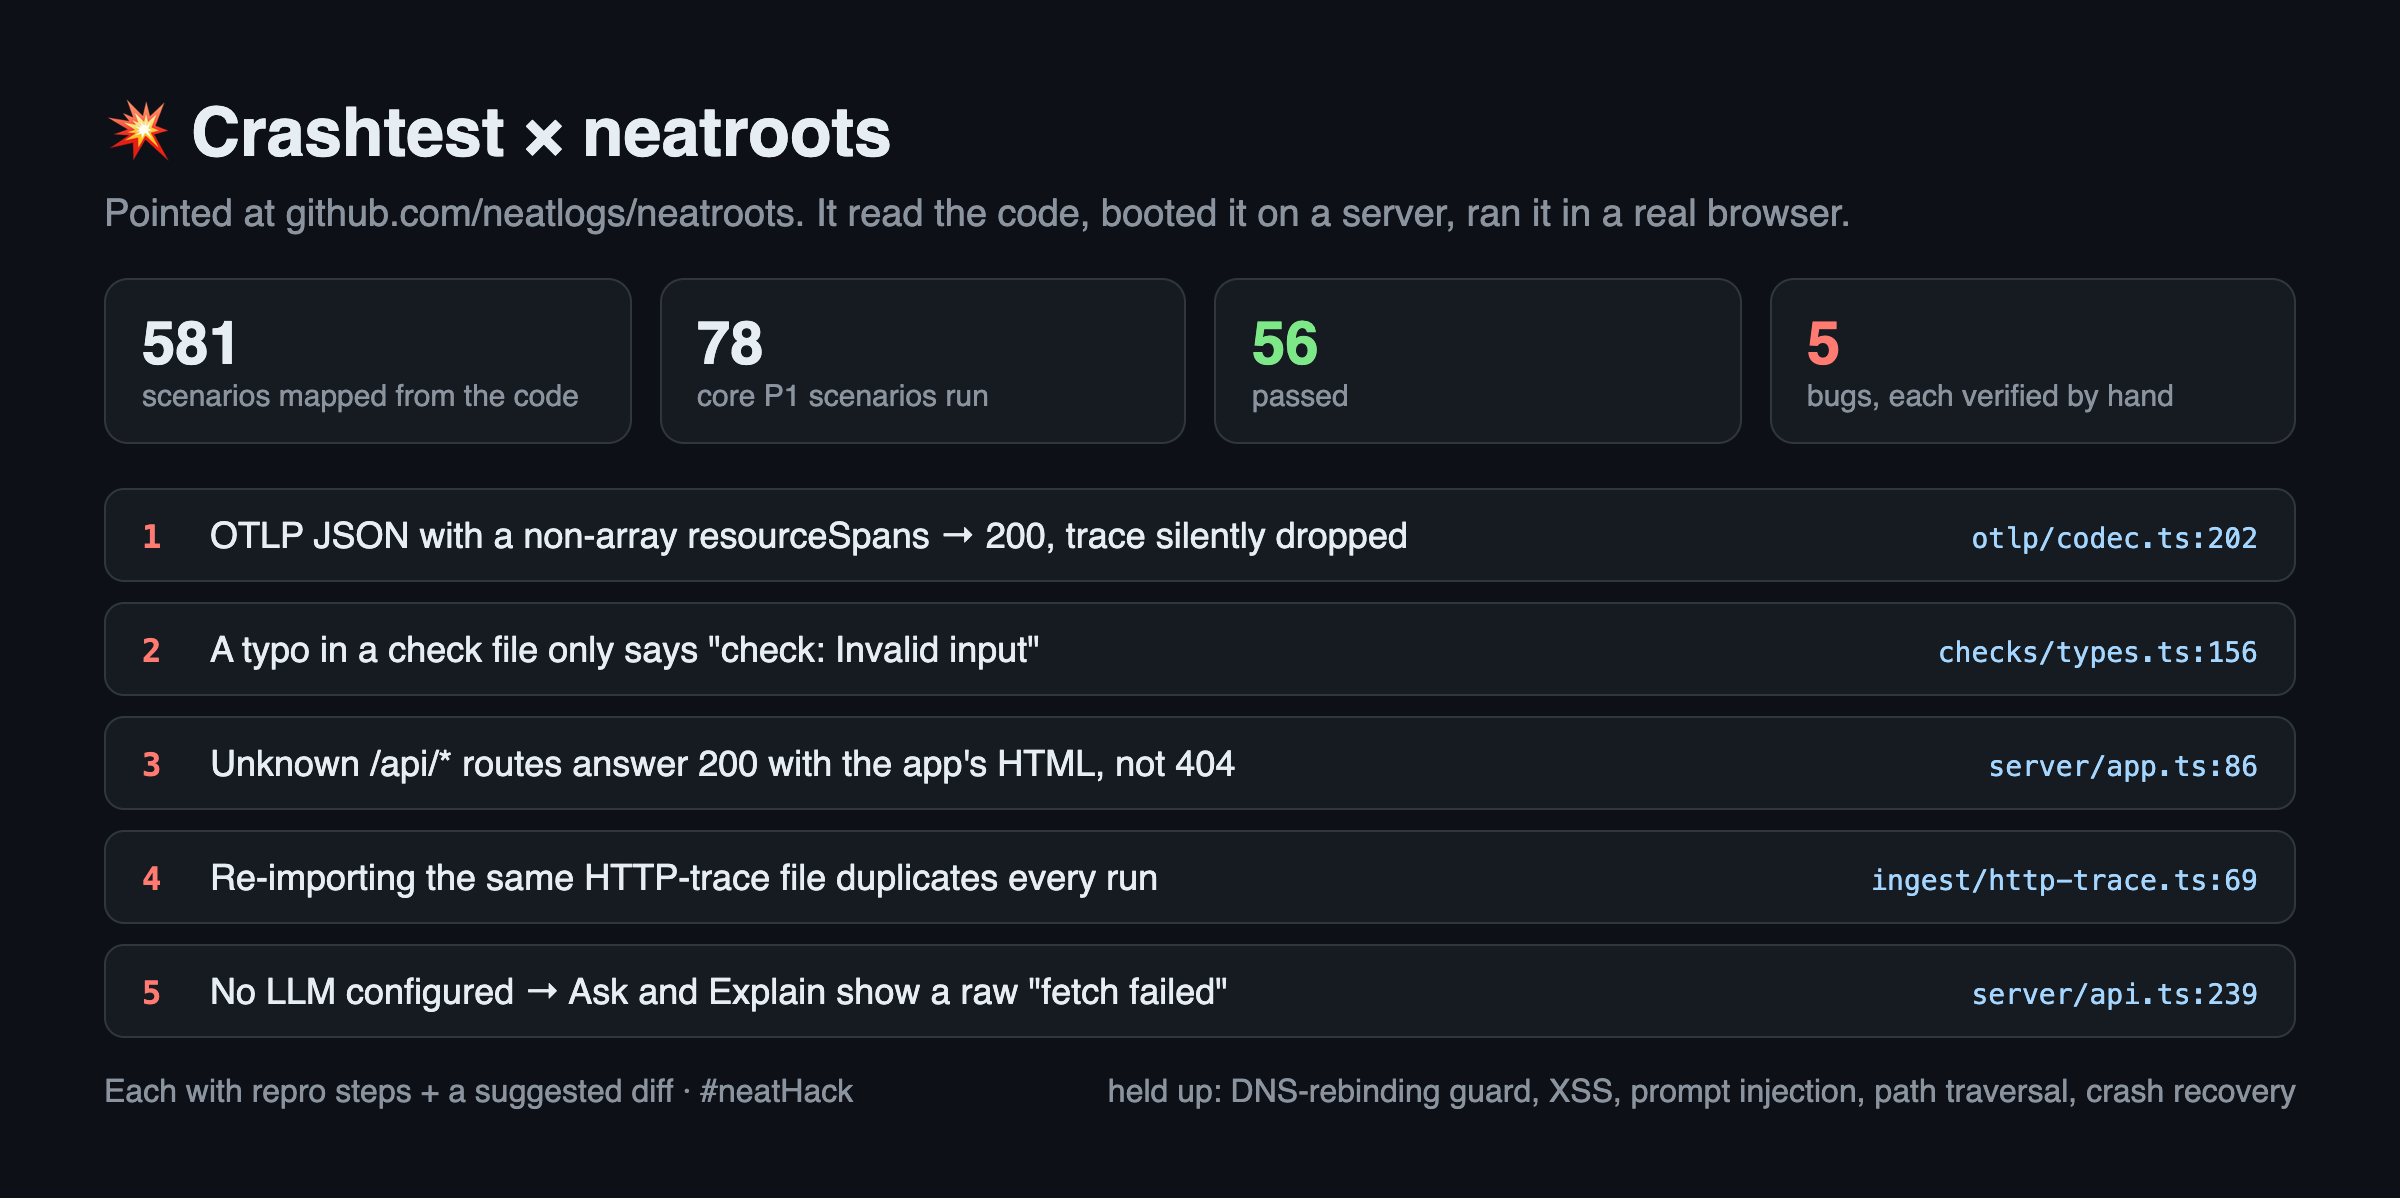
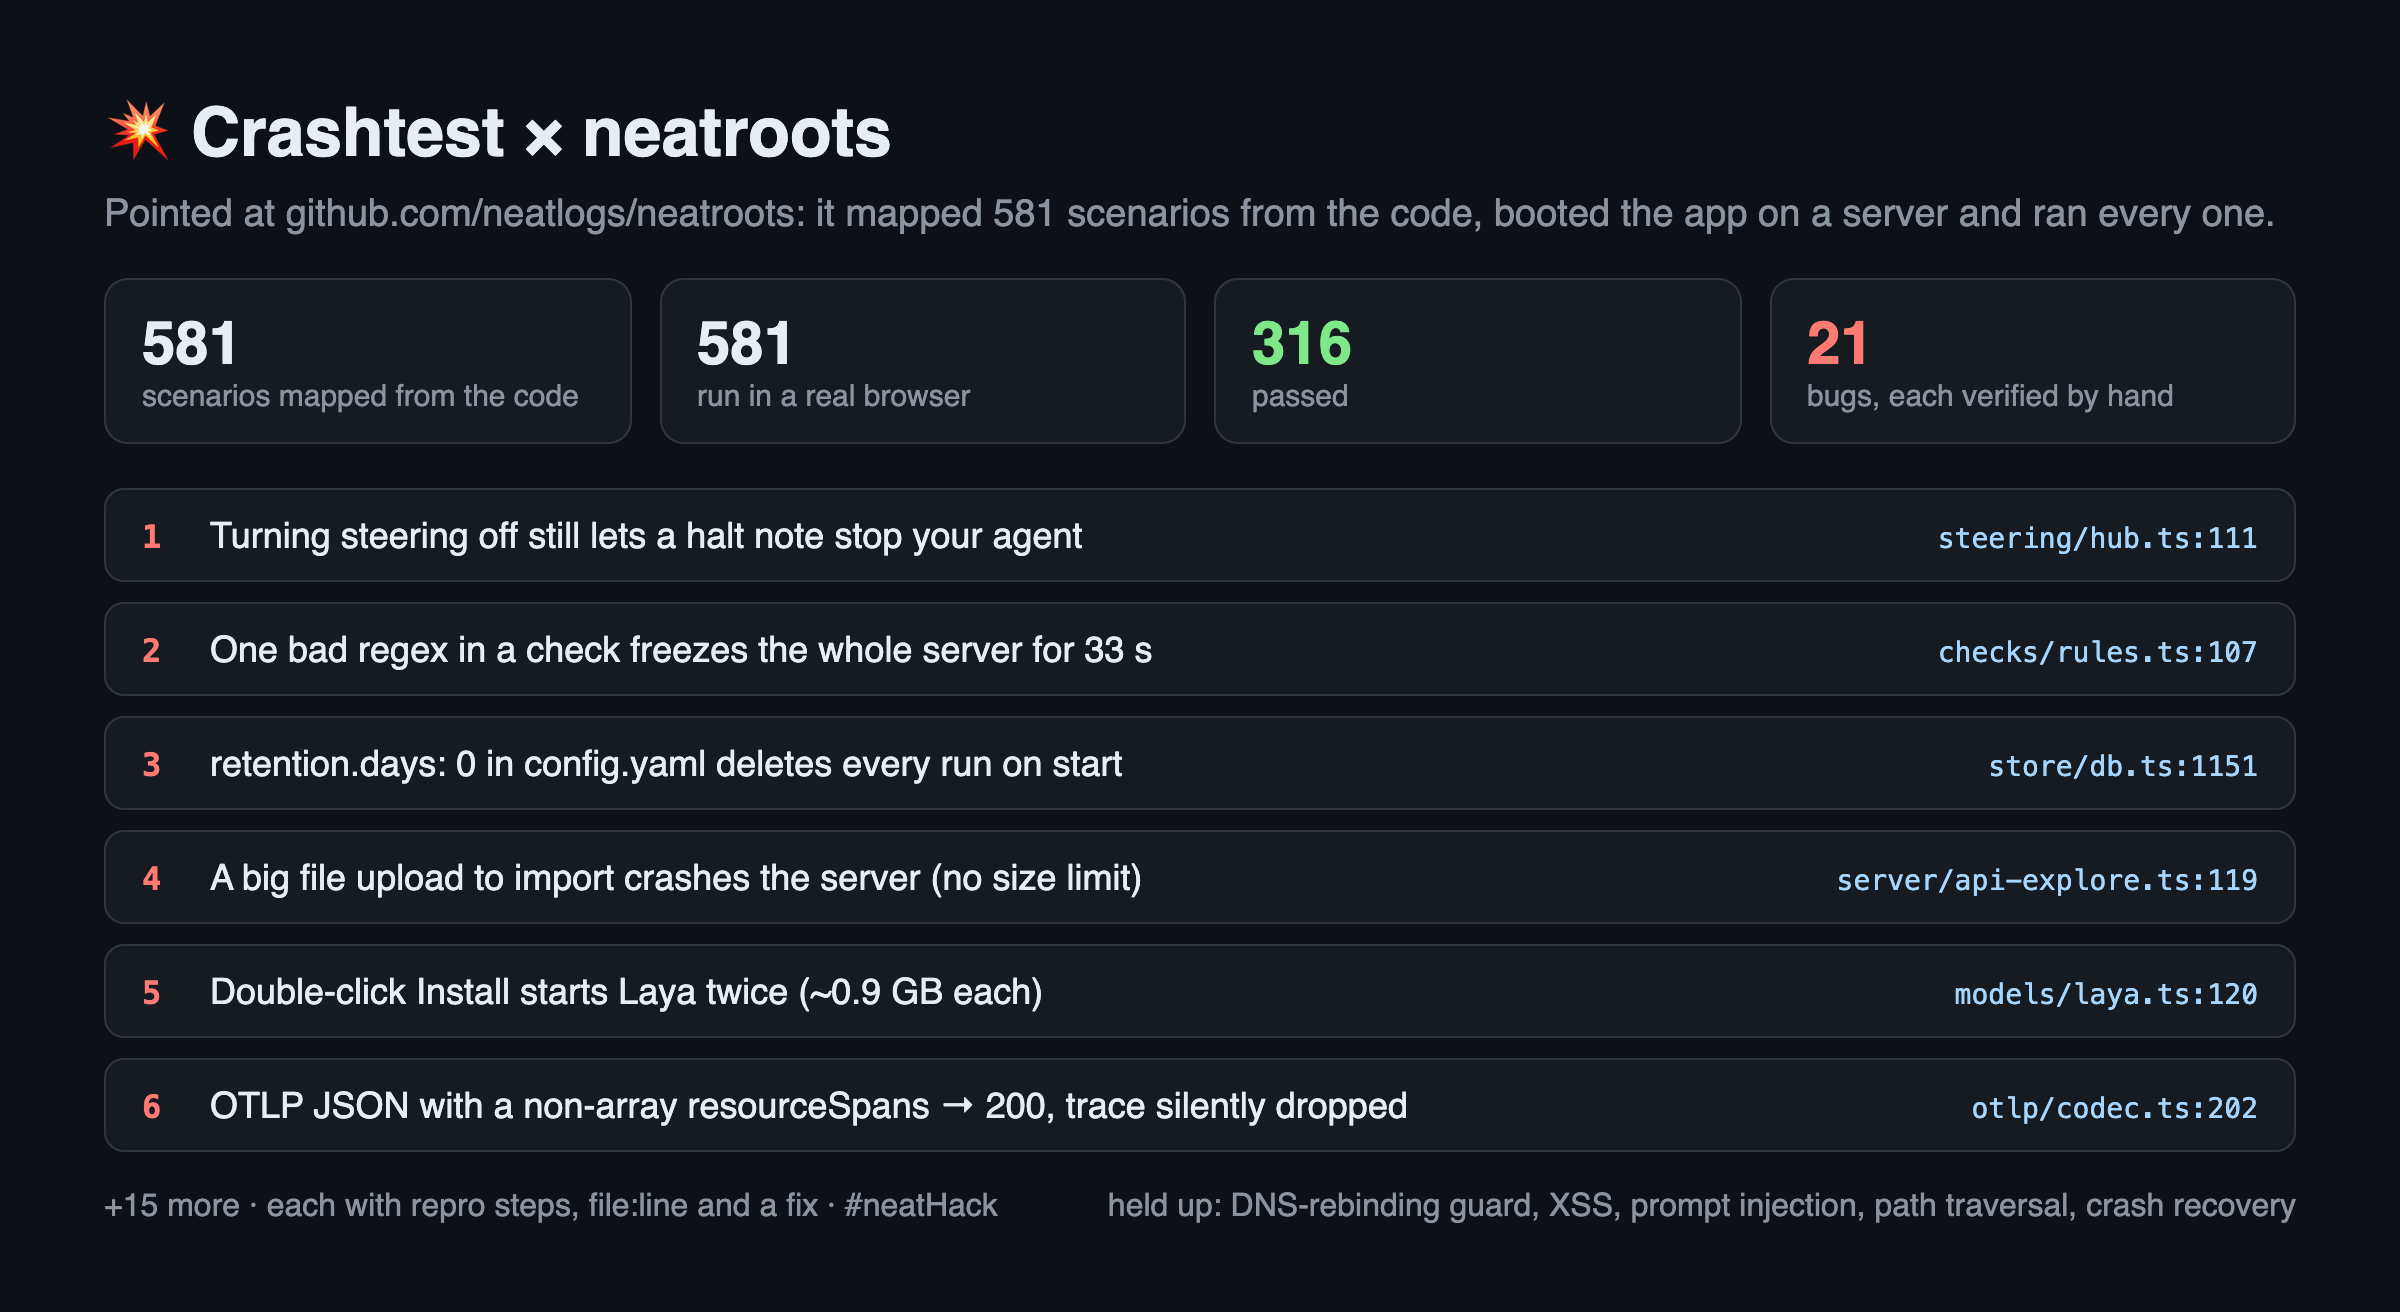
Record the full neatroots run: 581 scenarios, 21 verified bugs
Entire-Checkpoint: a76152268aab

diff --git a/docs/evidence/findings-neatroots.md b/docs/evidence/findings-neatroots.md
@@ -7,23 +7,46 @@ neatlogs' head of product engineering ([the ask](https://x.com/kurokotetsuyami/s
 
 ## What ran
 
-- Crashtest read the repo, found two products (neatroots and its steering hook), and mapped **neatroots**:
-  **581 scenarios** across 12 user journeys (219 P1 · 268 P2 · 94 P3), in under 5 minutes.
-- It booted neatroots by itself on an Ubuntu server (pnpm install, builds `packages/ui` and
-  `packages/neatroots`, starts `dist/cli.js start`) in about 3 minutes, and tunneled it back to a browser
-  on the Mac.
-- It ran the **78 P1 scenarios** of the five core journeys: send traces, browse runs and findings, manage
-  checks, ask/explain/replay, and import. First pass: 45 passed · 19 broken · 14 skipped.
-- Most skips needed an LLM. A second pass of 16 scenarios started neatroots' own mock LLM (given to Crashtest
-  as a setup note in chat) and ran on the fixed runner below: 11 passed · 0 broken · 5 skipped.
-  **Final: 56 passed · 16 broken · 6 skipped.** Of the 16 broken, 7 are bugs 1–5 below, 1 is the gap, and
-  8 are expectations the scenario writer assumed (listed at the end).
-- Every "broken" verdict below was then checked by hand against the source, and reproduced where it could
-  be. Verdicts that did not hold up are listed at the end, with what we changed in Crashtest because of them.
+**All 581 scenarios ran: ✅ 316 passed · ❌ 158 broken · ⏭ 107 skipped · 0 left.** We checked the broken
+verdicts by hand against the source: **21 are real bugs** (below), one is a gap, and the rest were wording or
+expectations the scenario writer assumed, design choices, or near-duplicates of a listed bug.
+
+- Crashtest read the repo, found two products (neatroots and its steering hook), and mapped **neatroots** into
+  **581 scenarios across 12 user journeys** (219 P1 · 268 P2 · 94 P3) in under 5 minutes.
+- It booted neatroots by itself on a 2-core, 2 GB Ubuntu server (pnpm install, two builds, start; plus
+  neatroots' own mock LLM, given as a setup note in chat) and tunneled it back to browsers on the Mac.
+- The first 94 scenarios ran one at a time on Sonnet; the remaining 487 ran on Haiku, three at a time. The five
+  that ran out of steps on Haiku were re-run on Sonnet, with Auto parallelism picking 2 at once from the
+  server's free memory: 3 passed, 1 broke, 1 skipped.
+
+| Priority | Scenarios | ✅ | ❌ | ⏭ |
+|---|---|---|---|---|
+| P1 | 219 | 126 | 51 | 42 |
+| P2 | 268 | 142 | 82 | 44 |
+| P3 | 94 | 48 | 25 | 21 |
+
+| Journey | Scenarios | ✅ | ❌ | ⏭ |
+|---|---|---|---|---|
+| Install, start and set up a project | 44 | 27 | 10 | 7 |
+| Send traces from my agent | 36 | 29 | 3 | 4 |
+| Browse runs and findings | 74 | 51 | 14 | 9 |
+| Manage checks | 61 | 44 | 13 | 4 |
+| Steer a running agent | 39 | 24 | 10 | 5 |
+| Ask, explain and replay runs | 41 | 20 | 15 | 6 |
+| Import runs from files and Neatlogs Cloud | 45 | 15 | 17 | 13 |
+| Configure models (LLM, Laya, Jev) | 56 | 22 | 20 | 14 |
+| Connect coding agents over MCP | 67 | 42 | 14 | 11 |
+| Chat with Claude Code or Codex in the app | 37 | 7 | 12 | 18 |
+| Send runs to Neatlogs Cloud | 47 | 22 | 20 | 5 |
+| Run in the background and maintain | 34 | 13 | 10 | 11 |
+
+Skipped, by reason: 33 need something a test run can't simulate (a real coding-agent CLI, a device, a real cloud
+account), 28 need a hosted LLM, cloud token or key we did not use, 16 assume a feature the app does not have,
+9 hit the 15-minute limit, 21 other.
 
 ## Verified findings
 
-Bugs 1–5 come from the 78 core scenarios; bugs 6–21 from the run of the remaining scenarios, which is still going.
+Bugs 1–5 came from the first 78 core scenarios, 6–21 from the rest.
 
 ### 1. A JSON OTLP body with a non-array `resourceSpans` is accepted and silently dropped (S-047)
 - **Do:** `POST /v1/traces` with `Content-Type: application/json` and `{"resourceSpans": "oops"}`.
@@ -230,7 +253,7 @@ Bugs 1–5 come from the 78 core scenarios; bugs 6–21 from the run of the rema
   offers re-run checks, ask, send to cloud and download.
 
 ## What held up
-Highlights from the 56 scenarios that passed:
+Highlights from the 316 scenarios that passed:
 - OTLP over HTTP JSON, gzipped protobuf and gRPC on 4317; a 70 MB body is refused with `413`.
 - Loopback-only bind and the DNS-rebinding guard (403 for a foreign `Host`); no API path returns the stored
   cloud token, only `has_token`.

diff --git a/README.md b/README.md
@@ -16,9 +16,7 @@ Built during [neatHack](https://neatlogs.com/hackathon) (Oct 10–12, 2026). Bui
 
 ## neatlogs asked us to test their own product
 
-After our first post, neatlogs' head of product engineering [replied](https://x.com/kurokotetsuyami/status/2108943094809071674): *"run this on neatroots, & share your findings with me"*. So we did. Crashtest mapped [neatlogs/neatroots](https://github.com/neatlogs/neatroots) into **581 scenarios across 12 user journeys** in under 5 minutes, booted it on a server by itself, and started running all of them.
-
-The 78 core P1 scenarios: **✅ 56 · ❌ 16 · ⏭ 6**, and every broken verdict checked by hand against the source. Real bugs include a JSON trace with a malformed `resourceSpans` accepted with `200` and silently dropped (`otlp/codec.ts:202`), `retention.days: 0` in `config.yaml` deleting every unpinned run on start (the API rejects 0, the config file does not), and unknown `/api/*` routes answering `200` with the web app's HTML. Each one has repro steps, `file:line` and a one-line fix: [docs/evidence/findings-neatroots.md](docs/evidence/findings-neatroots.md).
+After our first post, neatlogs' head of product engineering [replied](https://x.com/kurokotetsuyami/status/2108943094809071674): *"run this on neatroots, & share your findings with me"*. So we did. Crashtest mapped [neatlogs/neatroots](https://github.com/neatlogs/neatroots) into **581 scenarios across 12 user journeys** in under 5 minutes, booted it on a 2 GB server by itself, and ran **every one of them: ✅ 316 · ❌ 158 · ⏭ 107**. We checked the broken verdicts by hand against the source: **21 real bugs**, among them turning steering off still letting a halt note stop the agent, one bad regex in a check freezing the whole server for 33 seconds, `retention.days: 0` in `config.yaml` deleting every run on start, and a large import upload crashing the server. Each one has repro steps, `file:line` and a fix: [docs/evidence/findings-neatroots.md](docs/evidence/findings-neatroots.md).
 
 ![Crashtest × neatroots](docs/evidence/neatroots-findings.png)
 

diff --git a/hackathon.md b/hackathon.md
@@ -89,6 +89,18 @@ Problem: most bugs users hit are not in untested code, they are in paths nobody 
   - A product choice made before a restart did nothing (pending questions live in memory). It now resumes the analysis.
 - The EC2 instance was stopped from outside mid-run (API stop, not from inside the VM). Restarted it; new IP.
 
+### 2026-10-10 (Sat) — 11:40–19:00 PDT — all 581 neatroots scenarios
+- Ran the remaining 503 scenarios on Haiku, three at a time on the VDS, then the five that ran out of steps on Sonnet.
+  **All 581: ✅ 316 · ❌ 158 · ⏭ 107, 0 left. 21 bugs verified by hand** — [docs/evidence/findings-neatroots.md](docs/evidence/findings-neatroots.md).
+- Built during the run, each tested before it shipped: parallel workers; Auto parallelism (reads the server's free
+  memory and says why it picked a number — "2 cores and 1.0 GB free… 2 at once" in the final run); a 15-minute limit
+  per scenario; stopping leftovers from an earlier run (pid files, only inside the app folder) and from each
+  scenario (an env tag, Linux); an isolated HOME for local runs; runner model choice (Sonnet/Haiku); setup notes;
+  steps-exhausted counted as skipped.
+- Kept the run alive through an outside stop of the EC2 instance (twice), a detached Elastic IP, a VPN that rotated our
+  IP, and memory spikes from neatroots itself (a 1.3 GB app copy, two Laya servers from one double-click — bug 16).
+- Live page for the run: http://34.238.91.131:8080.
+
 ## Building in public
 - 2026-10-09 announcement: https://x.com/kurokotetsuyami/status/2108778646320390337
 - 2026-10-10 full Conduit run (294 scenarios, 104 broken in 34 files): https://x.com/kurokotetsuyami/status/2108943094809071674
